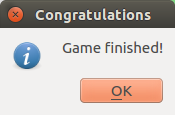
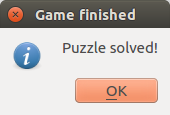
abstract game
Former-commit-id: 353b23ef7742c3a9b0cdc5ec47cd05564874597a

diff --git a/p6-gui.html b/p6-gui.html
@@ -607,23 +607,46 @@ centralWidget()-&gt;setLayout(layout);
 <slide  >
   
     <hgroup>
-      <h2>Fifteen</h2>
+      <h2>Fifteen – Gioco astratto</h2>
       <h3></h3>
     </hgroup>
     <article >
       <figure>
         <img src="images/qt/fifteen-puzzle.jpg">
         
+      </figure><pre class="prettyprint" data-lang="C++"><code>class Game {
+public:
+    virtual void play_at(int x, int y) = 0;
+    virtual int cols() const = 0;
+    virtual int rows() const = 0;
+    virtual std::string get_val(int x, int y) const = 0;
+    virtual bool is_finished() const = 0;
+    virtual std::string get_message() const = 0;
+};
+</code></pre></article>
+ 
+</slide>
+
+<slide  >
+  
+    <hgroup>
+      <h2>Fifteen – Gui generica</h2>
+      <h3></h3>
+    </hgroup>
+    <article >
+      <figure>
+        <img src="images/qt/puzzle.png">
+        
       </figure><pre class="prettyprint" data-lang="C++"><code>class GameGui : public QWidget {
     Q_OBJECT
 public:
-    GameGui(Fifteen* puzzle);
+    GameGui(Game* game);
 private:
     void handle_click(int x, int y);
     void update_button(int x, int y);
     void update_all_buttons();
 
-    Fifteen* puzzle_;
+    Game* game_;
     int cols_, rows_;
 };
 </code></pre></article>
@@ -637,12 +660,9 @@ private:
       <h3></h3>
     </hgroup>
     <article >
-      <figure>
-        <img src="images/qt/puzzle.png">
-        
-      </figure><pre class="prettyprint" data-lang="C++"><code>GameGui::GameGui(Fifteen* puzzle) {
-    cols_ = puzzle.cols(); rows_ = puzzle.rows();
-    puzzle_ = puzzle; 
+      <pre class="prettyprint" data-lang="C++"><code>GameGui::GameGui(Game* game) {
+    cols_ = game.cols(); rows_ = game.rows();
+    puzzle_ = game;
     auto grid = new QGridLayout; setLayout(grid);
     for (auto y = 0; y &lt; rows_; ++y) {
         for (auto x = 0; x &lt; cols_; ++x) {
@@ -670,12 +690,9 @@ private:
     </hgroup>
     <article >
       <pre class="prettyprint" data-lang="C++"><code>void GameGui::update_button(int x, int y) {
-    auto val = puzzle_-&gt;get(x, y);
-    string symbol = "";
-    if (val &gt; 0) symbol = to_string(val);
-
+    auto val = puzzle_-&gt;get_val(x, y);
     auto b = layout()-&gt;itemAt(y * cols_ + x)-&gt;widget();
-    dynamic_cast&lt;QPushButton*&gt;(b)-&gt;setText(symbol.c_str());
+    dynamic_cast&lt;QPushButton*&gt;(b)-&gt;setText(val.c_str());
 }
 
 void GameGui::update_all_buttons() {
@@ -700,15 +717,13 @@ void GameGui::update_all_buttons() {
         <img src="images/qt/puzzle-solved.png">
         
       </figure><pre class="prettyprint" data-lang="C++"><code>void GameGui::handle_click(int x, int y) {
-    puzzle_-&gt;move_pos(x, y);
+    game_-&gt;play_at(x, y);
     update_all_buttons();  // ...
 
-    if (puzzle_-&gt;is_finished()) {
-        QMessageBox::information(this,
-                tr("Congratulations"),
-                tr("Game finished!"));
-        puzzle_-&gt;new_game();
-        update_all_buttons();
+    if (game_-&gt;is_finished()) {
+        QMessageBox::information(nullptr, tr("Game finished"),
+                                 tr(game_-&gt;get_message().c_str()));
+        window()-&gt;close();
     }
 }
 </code></pre></article>
